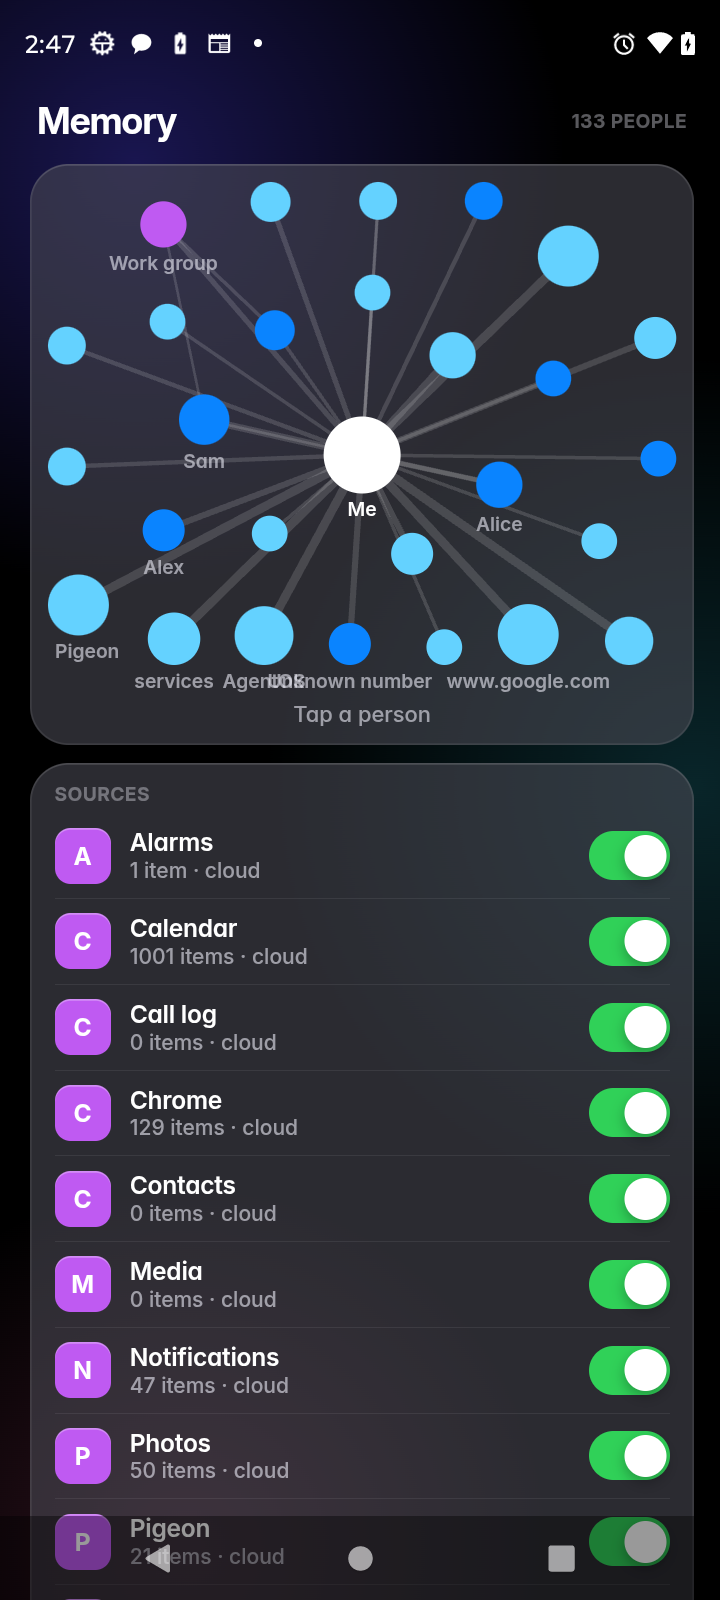
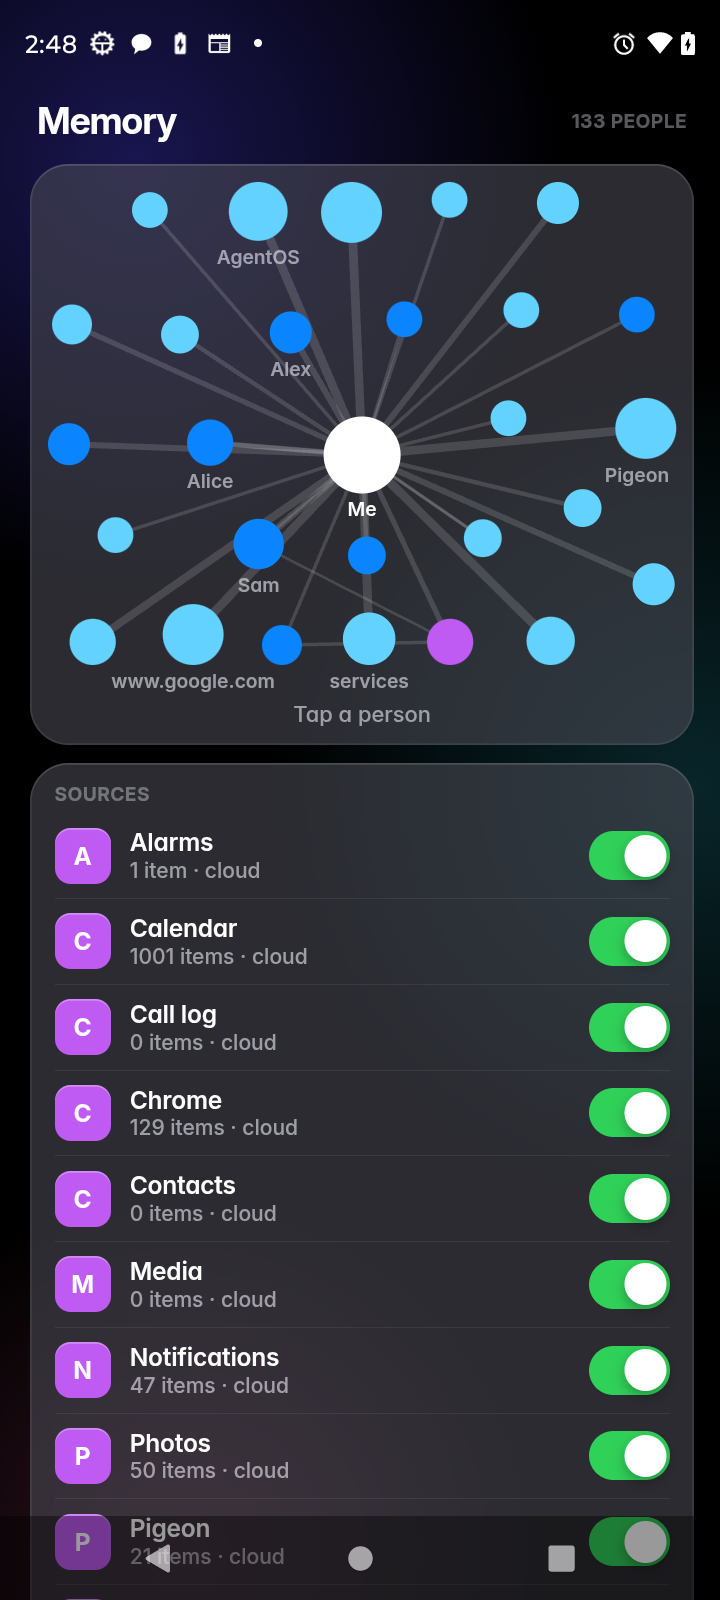
memory graph: labels stay inside the box and never overlap

Changed region(s): [[0.0611, 0.0938, 0.9472, 0.4375]]

diff --git a/web/app.js b/web/app.js
@@ -810,6 +810,8 @@ function drawGraph(g) {
     for (const e of edges) { const a = byId[e.source], b = byId[e.target], dx = b.x - a.x, dy = b.y - a.y, d = Math.hypot(dx, dy) || 1, f = (d - (90 - Math.min(30, e.weight * 4))) * .02; a.x += dx / d * f; a.y += dy / d * f; b.x -= dx / d * f; b.y -= dy / d * f; }
     for (const n of nodes) { if (n === me) { n.x = cx; n.y = cy; continue; } n.x += (cx - n.x) * .01; n.y += (cy - n.y) * .01; n.x = Math.max(n.r + 4, Math.min(W - n.r - 4, n.x)); n.y = Math.max(n.r + 4, Math.min(H - n.r - 40, n.y)); }
   }
+  const placed = []; // strongest first: a label that would sit on another one stays quiet
+  for (const n of nodes) { if (!n.text) continue; const lx = Math.max(n.half, Math.min(W - n.half, n.x)), ly = n.y + n.r; if (placed.some((p) => Math.abs(p.y - ly) < 18 && Math.abs(p.x - lx) < p.half + n.half)) n.text = ''; else placed.push({ x: lx, y: ly, half: n.half }); }
   const ns = 'http://www.w3.org/2000/svg', mk = (t, a) => { const e = document.createElementNS(ns, t); for (const k in a) e.setAttribute(k, a[k]); return e; };
   svg.replaceChildren(...edges.map((e) => mk('line', { x1: byId[e.source].x, y1: byId[e.source].y, x2: byId[e.target].x, y2: byId[e.target].y, 'stroke-width': 1 + Math.min(4, e.weight / 2) })),
     ...nodes.map((n) => { const gg = mk('g', { class: ['me', 'person', 'group'].includes(n.type) ? n.type : 'other' });
